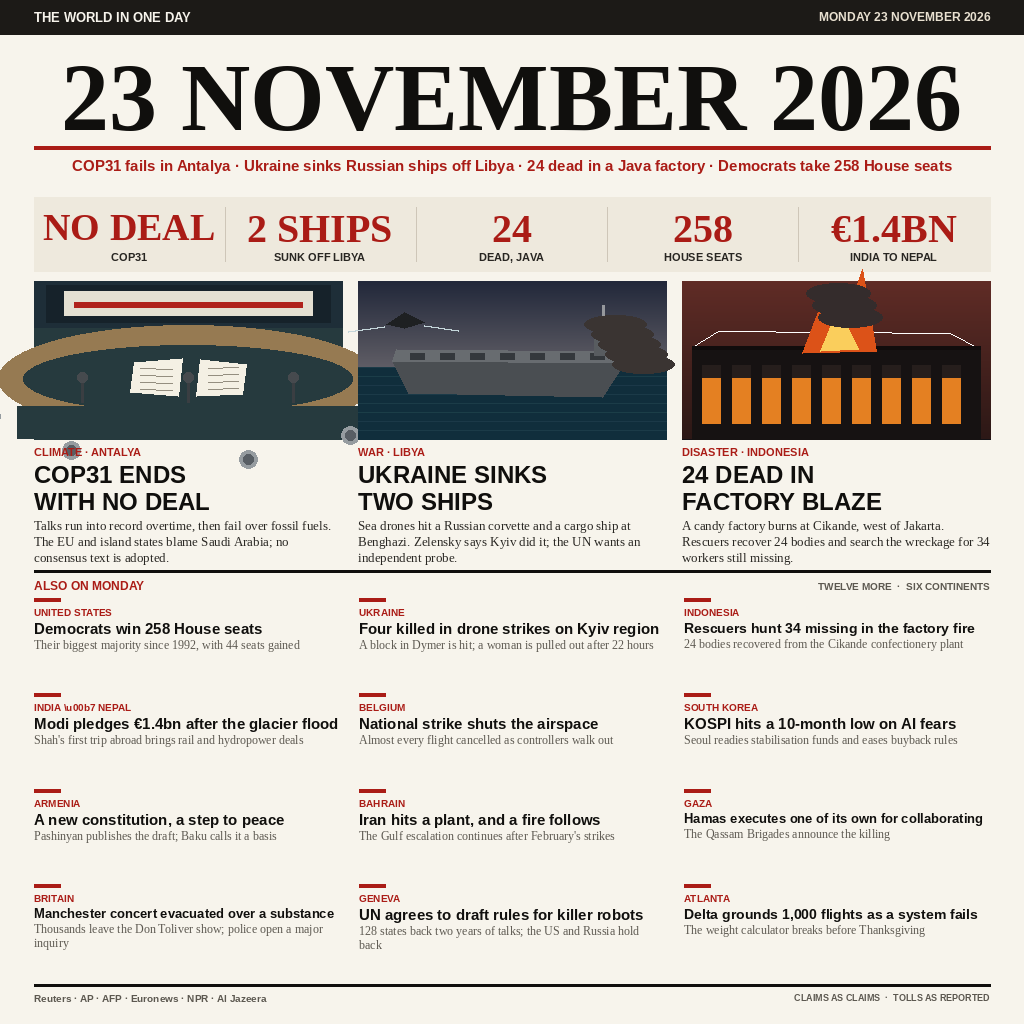
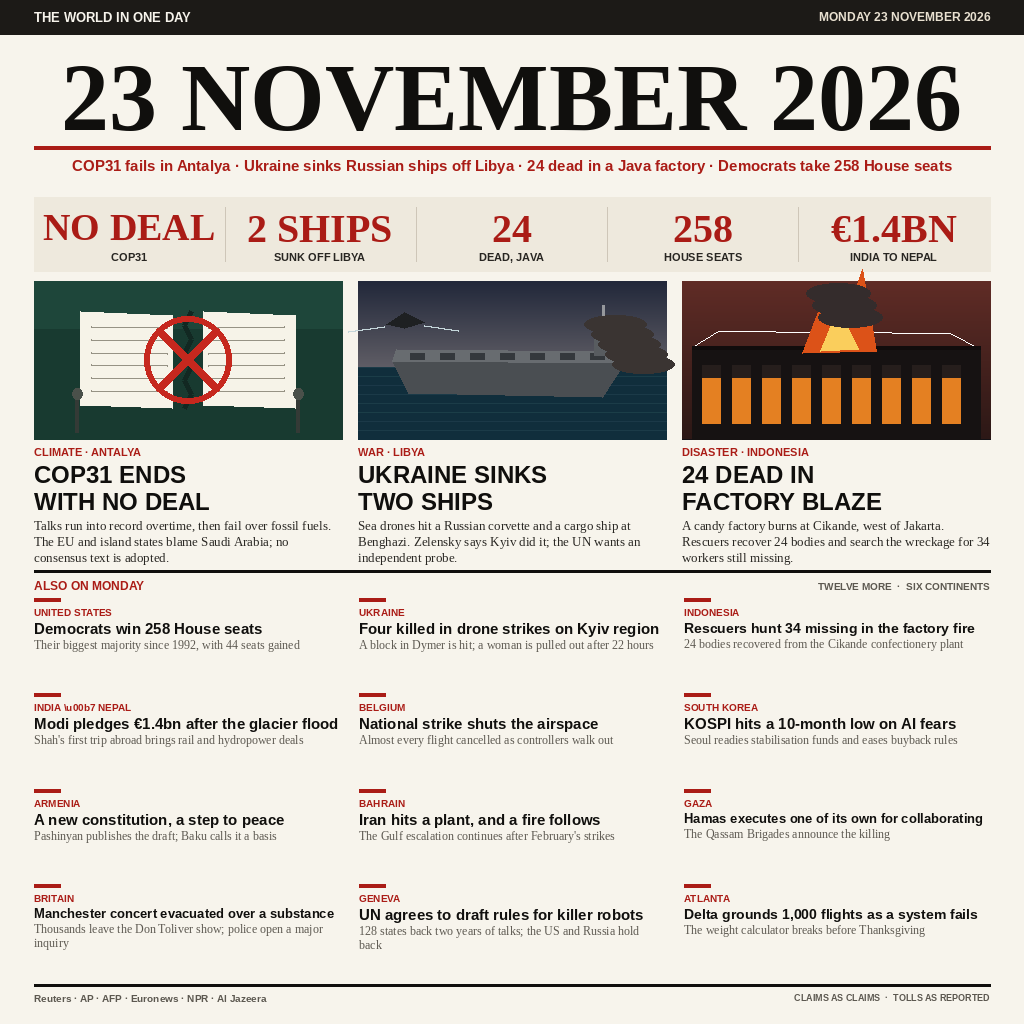
Draw COP31 as a torn agreement with a red no-deal stamp

Changed region(s): [[0.0, 0.2812, 0.375, 0.4375], [0.2188, 0.4375, 0.25, 0.4688], [0.0625, 0.4375, 0.0938, 0.4688]]

diff --git a/build.py b/build.py
@@ -82,45 +82,50 @@ def fit(d, text, path, max_size, width, floor=13):
 
 # ---------------------------------------------------------------- illustrations
 def scene_cop(d, box):
-    """A summit that failed: a horseshoe table, most chairs empty, a torn text."""
+    """A deal torn in two on a green table, stamped red: no agreement reached."""
     x0, y0, x1, y1 = box
-    h = y1 - y0
-    d.rectangle(box, fill=(30, 46, 56))
-    # carpet
-    d.rectangle([x0, y0 + h * 0.30, x1, y1], fill=(38, 58, 62))
-    # the table: a horseshoe, seen from above, pale wood on the dark floor
-    cx, cy = (x0 + x1) / 2, y0 + h * 0.62
-    tw, th = (x1 - x0) * 0.62, h * 0.34
-    d.ellipse([cx - tw, cy - th, cx + tw, cy + th], fill=(150, 122, 82))
-    d.ellipse([cx - tw + 26, cy - th + 20, cx + tw - 26, cy + th - 20], fill=(38, 58, 62))
-    d.rectangle([cx - tw + 20, cy + th - 26, cx + tw - 20, cy + th + 6], fill=(38, 58, 62))
-    # seats round the outside: half of them empty, one tipped over
-    for i in range(11):
-        a = 3.14159 * (0.06 + 0.88 * i / 10.0)
-        import math
-        sx = cx - math.cos(a) * (tw + 30)
-        sy = cy + math.sin(a) * (th + 30)
-        if i in (2, 4, 5, 7, 9):
-            continue
-        d.ellipse([sx - 9, sy - 9, sx + 9, sy + 9], fill=(150, 156, 160))
-        d.ellipse([sx - 5, sy - 5, sx + 5, sy + 5], fill=(88, 94, 100))
-    # the document on the table, torn down the middle and pulled apart
-    dx, dy = cx, cy
-    d.polygon([(dx - 54, dy - 16), (dx - 6, dy - 20), (dx - 10, dy + 18), (dx - 58, dy + 14)],
-              fill=(244, 240, 228))
-    d.polygon([(dx + 12, dy - 19), (dx + 58, dy - 14), (dx + 54, dy + 16), (dx + 8, dy + 18)],
-              fill=(244, 240, 228))
-    for ry in range(int(dy) - 10, int(dy) + 14, 7):
-        d.line([(dx - 48, ry), (dx - 16, ry + 1)], fill=(148, 142, 128), width=1)
-        d.line([(dx + 20, ry), (dx + 50, ry - 1)], fill=(148, 142, 128), width=1)
-    # microphones on the table, unlit
-    for mx in (cx - tw * 0.55, cx, cx + tw * 0.55):
-        d.line([(mx, cy + th - 30), (mx, cy + th - 52)], fill=(58, 62, 66), width=3)
-        d.ellipse([mx - 5, cy + th - 60, mx + 5, cy + th - 50], fill=(70, 74, 78))
-    # the empty stage behind, with a screen that shows nothing agreed
-    d.rectangle([x0 + 12, y0 + 4, x1 - 12, y0 + h * 0.26], fill=(22, 34, 42))
-    d.rectangle([x0 + 30, y0 + 10, x1 - 30, y0 + h * 0.22], fill=(228, 224, 210))
-    d.line([(x0 + 40, y0 + h * 0.15), (x1 - 40, y0 + h * 0.15)], fill=(176, 34, 28), width=6)
+    w, h = x1 - x0, y1 - y0
+    cx, cy = x0 + w * 0.5, y0 + h * 0.5
+    # the felt table, lit from the top left
+    d.rectangle(box, fill=(24, 58, 48))
+    d.rectangle([x0, y0, x1, y0 + h * 0.30], fill=(30, 70, 58))
+    # two sheets, torn down the middle and pulled apart, big enough to read small
+    sw, sh = w * 0.30, h * 0.62
+    gap = w * 0.05
+    for side, dx in ((-1, -1), (1, 1)):
+        left = cx + dx * gap if dx > 0 else cx - gap - sw
+        top = cy - sh / 2
+        d.polygon([(left, top), (left + sw, top + h * 0.03),
+                   (left + sw, top + sh), (left, top + sh - h * 0.02)],
+                  fill=(246, 243, 232))
+        # ruled lines of the draft text, ragged on the torn edge
+        for i in range(6):
+            ly = top + sh * (0.16 + 0.13 * i)
+            if dx < 0:
+                d.line([(left + sw * 0.12, ly), (left + sw * 0.94, ly + 1)],
+                       fill=(150, 146, 132), width=2)
+            else:
+                d.line([(left + sw * 0.06, ly + 1), (left + sw * 0.88, ly)],
+                       fill=(150, 146, 132), width=2)
+    # the tear: a jagged dark seam between the halves
+    zig = []
+    steps = 7
+    for i in range(steps + 1):
+        t = i / steps
+        zig.append((cx + (-1 if i % 2 else 1) * w * 0.012, cy - sh / 2 + sh * t))
+    for i in range(steps):
+        d.line([zig[i], zig[i + 1]], fill=(18, 40, 34), width=5)
+    # the red stamp over the tear, big and plain so it reads at 300 px
+    r = w * 0.14
+    d.ellipse([cx - r, cy - r, cx + r, cy + r], outline=(198, 40, 30), width=6)
+    d.line([(cx - r * 0.66, cy - r * 0.66), (cx + r * 0.66, cy + r * 0.66)],
+           fill=(198, 40, 30), width=8)
+    d.line([(cx + r * 0.66, cy - r * 0.66), (cx - r * 0.66, cy + r * 0.66)],
+           fill=(198, 40, 30), width=8)
+    # two unused microphones at the head of the table: nobody is speaking
+    for mx in (x0 + w * 0.14, x1 - w * 0.14):
+        d.line([(mx, y1 - h * 0.04), (mx, y1 - h * 0.26)], fill=(52, 58, 54), width=4)
+        d.ellipse([mx - 5, y1 - h * 0.32, mx + 5, y1 - h * 0.25], fill=(74, 80, 74))
 
 
 def scene_drones(d, box):

diff --git a/README.md b/README.md
@@ -47,7 +47,7 @@ grounds more than 1,000 flights before Thanksgiving.
 ```
 build.py     the composer: Pillow, stdlib only, no clock, no randomness
 main.py      validates and copies entry.png to /output (Python 3.13 stdlib)
-entry.png    the rendered page (139,889 bytes)
+entry.png    the rendered page (140,093 bytes)
 ```
 
 ## Run it
